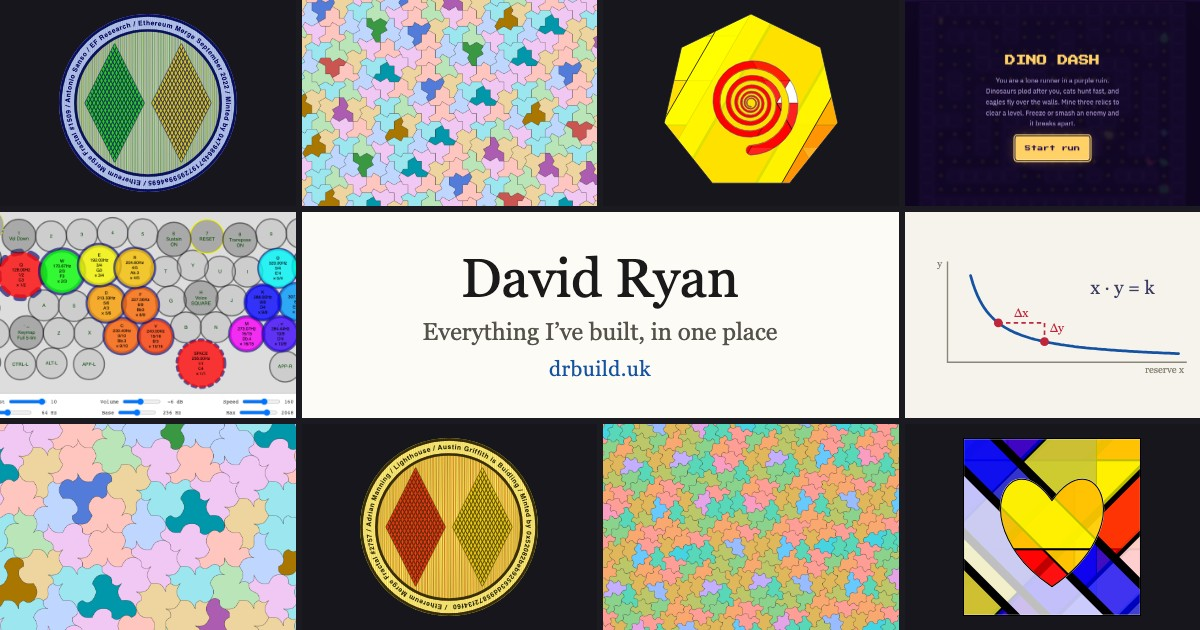
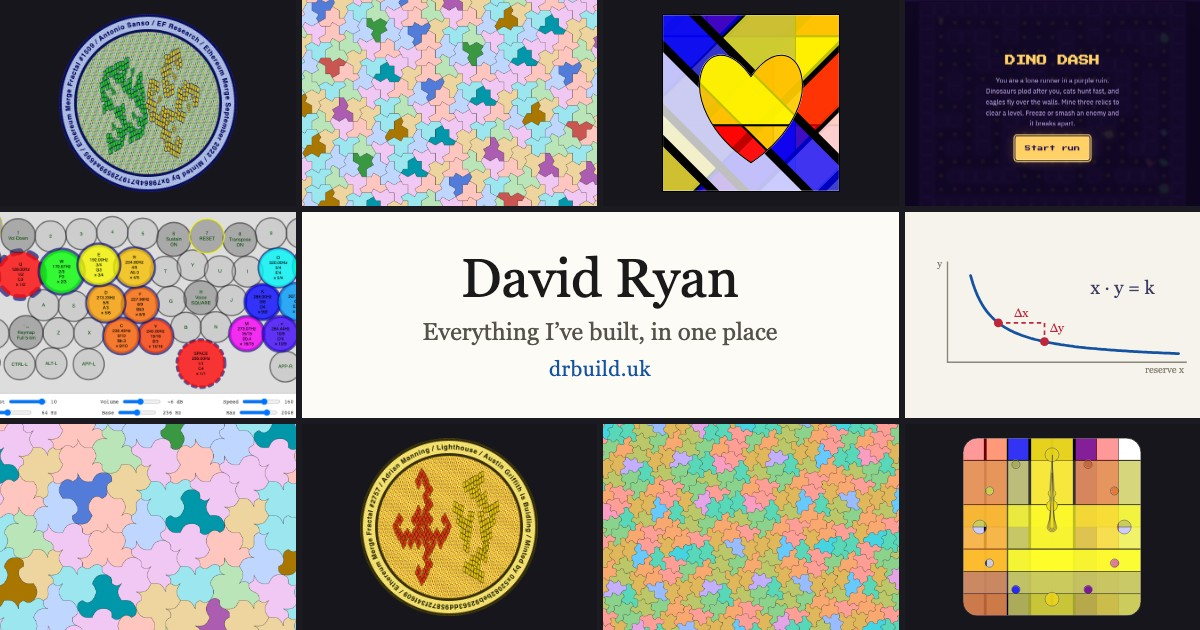
Add cards

diff --git a/tools/social-cards/render.js b/tools/social-cards/render.js
@@ -9,8 +9,8 @@
    reads the three audited contracts' bytecode from a public Ethereum RPC.
 
    Stage 1 draws the pictures the cards are made from into a temporary
-   folder: the tiling tabs with their panels hidden, the two live sites,
-   the bytecode. Stage 2 lays out each card in cards.html and saves a JPEG,
+   folder: the tiling tabs with their panels hidden, the Merge Fractals
+   part way through their animation, the two live sites, the bytecode. Stage 2 lays out each card in cards.html and saves a JPEG,
    at the best quality that stays under 300 KB, since WhatsApp shows no
    picture for anything larger. */
 const http = require('http'), fs = require('fs'), path = require('path'), os = require('os');
@@ -30,6 +30,10 @@ const TILINGS = {
   'hat-extended': '/demos/hat-extended/#v=0,0,34,0,0,0&c=pastel&t=30&e=jigsaw&ha=0.22&hb=0.22&a=S&p=neck%3A0.55',
   'hat-curves': '/demos/hat-extended/#v=0,0,30,0,0,0&c=pastel&t=30&e=curve&ha=0.22&hb=0.22&a=alt&p=waves%3A1'
 };
+// Merge Fractals animate: every few seconds the two diamonds break into
+// fractal shapes and back. Each is caught at a moment of seconds into its
+// animation where the shapes are clearest.
+const FRACTALS = { '1509': 17.5, '1904': 17.5, '2757': 11.5 };
 // Live sites for the builder page's mosaic, cropped to their liveliest part.
 const SITES = {
   'dino-dash': { url: 'https://pacman-dino-dash.netlify.app', clip: { x: 305, y: 195, width: 590, height: 413 } },
@@ -72,6 +76,16 @@ async function stageOne(browser, base) {
     console.log('drew ' + name + '.png', Math.round(fs.statSync(path.join(TMP, name + '.png')).size / 1024) + ' KB');
   }
   await ctx.close();
+  const art = await browser.newContext({ viewport: { width: 400, height: 400 }, deviceScaleFactor: 2 });
+  for (const [id, t] of Object.entries(FRACTALS)) {
+    const page = await art.newPage();
+    await page.goto(base + '/merge-fractal-' + id + '.svg');
+    await page.evaluate(t => { const svg = document.documentElement; svg.pauseAnimations(); svg.setCurrentTime(t); }, t);
+    await page.waitForTimeout(200);
+    await page.screenshot({ path: path.join(TMP, 'merge-fractal-' + id + '.png'), omitBackground: true });
+    await page.close();
+  }
+  await art.close();
   const web = await browser.newContext({ viewport: { width: 1200, height: 840 } });
   for (const [name, site] of Object.entries(SITES)) {
     const page = await web.newPage();

diff --git a/tools/social-cards/cards.html b/tools/social-cards/cards.html
@@ -169,9 +169,9 @@
     function artTile(f) { return '<div class="tile art"><img src="' + f + '" alt=""></div>'; }
     var curve = '<div class="tile cream">' + diagrams['uniswap-v2']().replace('width="520" height="220"', 'width="286" height="121"') + '</div>';
     return '<div class="card mosaic"><div class="grid">' +
-      artTile('/merge-fractal-1509.svg') + img(SRC + 'hat.png', '40% 45%') + artTile('moving-mondrian-14.svg') + img(SRC + 'dino-dash.png') +
+      artTile(SRC + 'merge-fractal-1509.png') + img(SRC + 'hat.png', '40% 45%') + artTile('/moving-mondrian-951.svg') + img(SRC + 'dino-dash.png') +
       img(SRC + 'retuner.png') + '<div class="name">' + words('David Ryan', 'Everything I’ve built, in one place') + '</div>' + curve +
-      img(SRC + 'hat-curves.png', '55% 50%') + artTile('/merge-fractal-2757.svg') + img(SRC + 'spectre.png', '35% 50%') + artTile('/moving-mondrian-951.svg') +
+      img(SRC + 'hat-curves.png', '55% 50%') + artTile(SRC + 'merge-fractal-2757.png') + img(SRC + 'spectre.png', '35% 50%') + artTile('/moving-mondrian-563.svg') +
       '</div></div>';
   }
 
@@ -181,10 +181,11 @@
     spectre: function () { return tiling('spectre', 'Spectre tiling', 'Tiles using only rotations, mirror image not required'); },
     'hat-extended': function () { return tiling('hat-extended', 'Hat tiling (extended)', 'Edge options on Hat make mirror image a separate tile'); },
     'merge-fractals': function () {
-      return art(['/merge-fractal-1509.svg', '/merge-fractal-1904.svg', '/merge-fractal-2757.svg'], 'Ethereum Merge Fractals', 'Generative onchain art marking Ethereum’s Merge');
+      return art([SRC + 'merge-fractal-1509.png', SRC + 'merge-fractal-1904.png', SRC + 'merge-fractal-2757.png'],
+        'Ethereum Merge Fractals', 'Generative onchain art marking Ethereum’s Merge');
     },
-    // Tokens 12 and 14, kept beside this page, stand in for token 133,
-    // which is a portrait, so no card shows a face.
+    // Token 12, kept beside this page, stands in for token 133, which is a
+    // portrait, so no card shows a face.
     'moving-mondrian': function () {
       return art(['moving-mondrian-12.svg', '/moving-mondrian-563.svg', '/moving-mondrian-951.svg'], 'Moving Mondrian', 'Fully onchain generative art on Optimism');
     },
